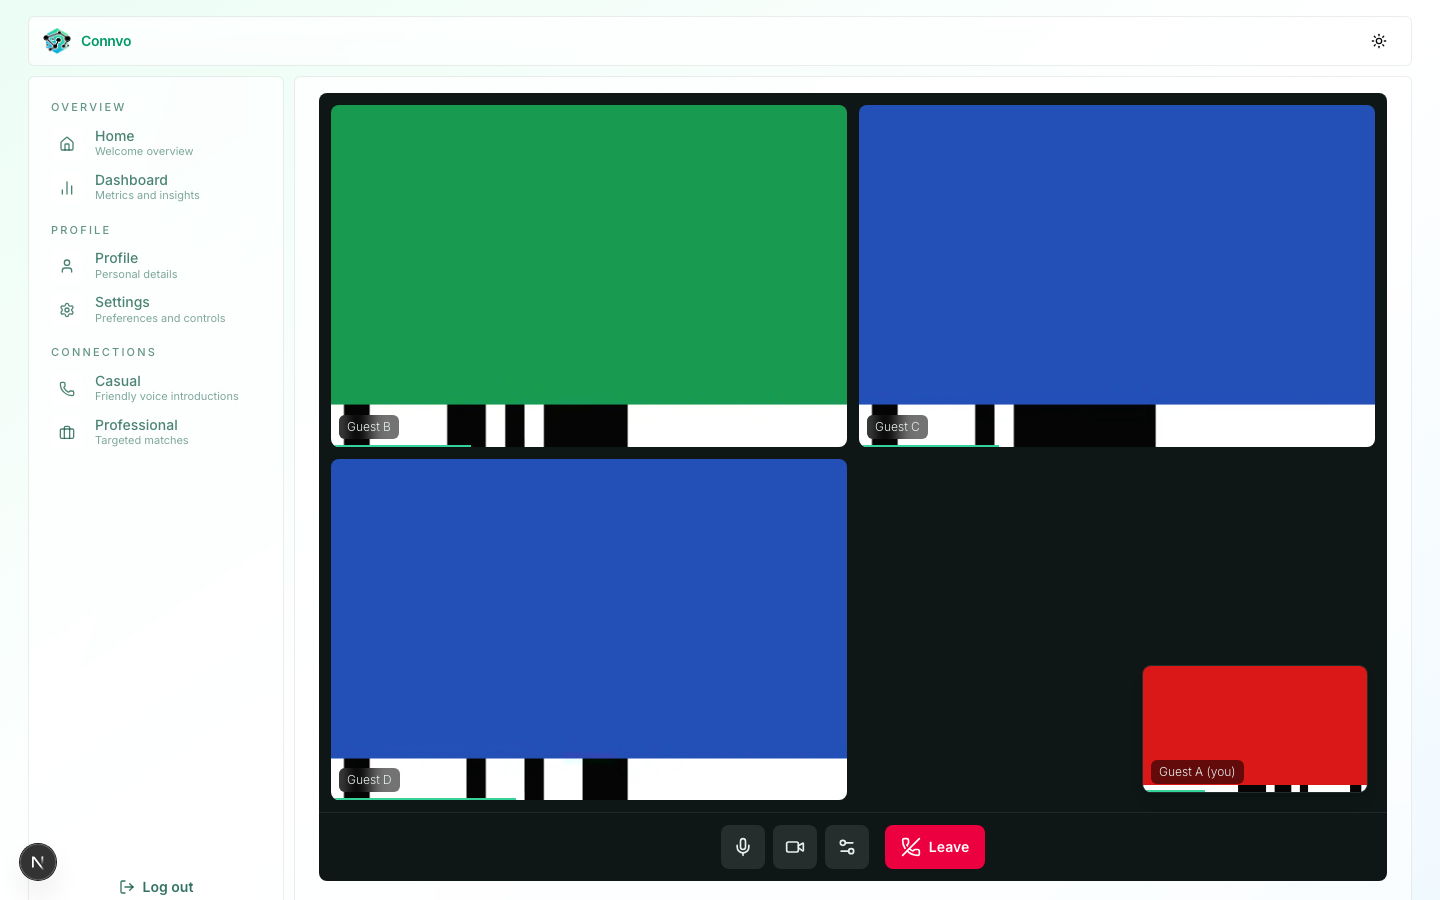
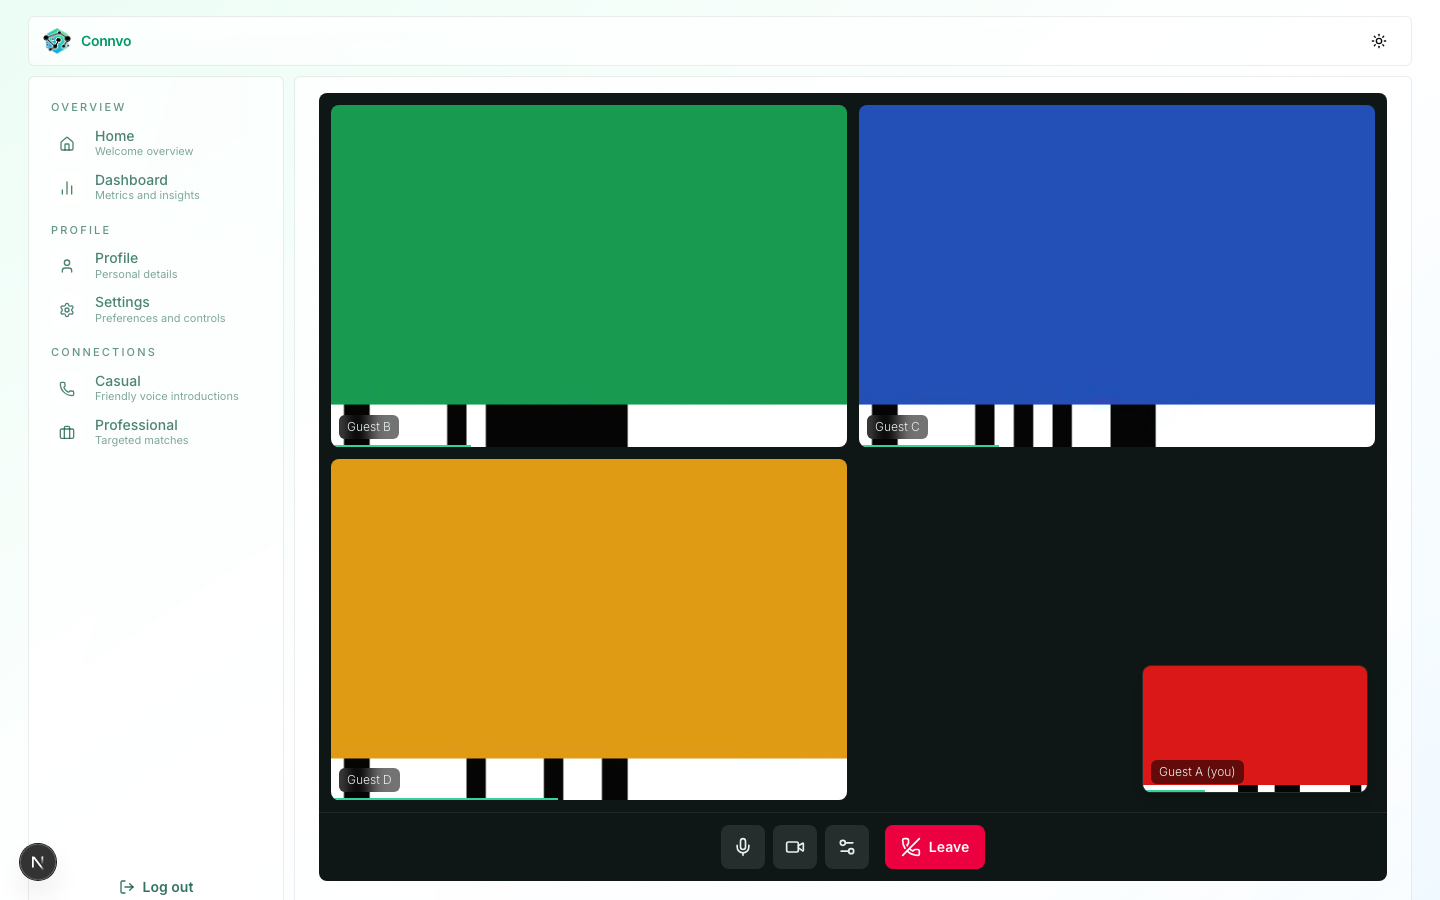
feat(call-eval): peer D gets its own colour and tone; P-03 checks ARIA state
- D was a copy of C's fixture, so the four-person screenshot could not
  show that D's tile carried D's video. D now has its own media: amber
  rgb(210,150,30) and a 1100 Hz tone, in the generator and its self-check,
  the contracts, the palette and the runner. The four-person screenshots
  are reshot (others unchanged): D's tile is amber.
- On the real page the mic and camera toggles are icon buttons, so P-03
  now requires both aria-pressed and aria-label to flip (the bench's text
  buttons still need their text to change).

Real page, p2p, seed 1: P-01 and P-03 pass (P-03 saw
"true|Unmute microphone" after Enter). P-02 and P-05 hit a join that never
negotiated, and P-04 saw two 150 ms animations under reduced motion; both
are being fixed next.

Changed region(s): [[0.2188, 0.4356, 0.5938, 0.9022], [0.7188, 0.4356, 0.7812, 0.4978], [0.875, 0.8711, 0.9062, 0.9022]]

diff --git a/tools/call-eval/lib/scenario-contracts.ts b/tools/call-eval/lib/scenario-contracts.ts
@@ -47,11 +47,12 @@ export const H_IDS = Object.keys(H_PASS_CONDITIONS) as HScenarioId[];
 export const P_IDS = Object.keys(P_PASS_CONDITIONS) as PScenarioId[];
 
 /** Pinned fixture constants (CONTRACT.md "Fixtures"). */
-export const TONES = { A: 440, B: 660, C: 880 } as const;
+export const TONES = { A: 440, B: 660, C: 880, D: 1100 } as const;
 export const PEER_COLORS = {
   A: [205, 35, 35],
   B: [35, 150, 85],
   C: [45, 85, 175],
+  D: [210, 150, 30],
 } as const;
 export const SECOND_CAMERA_COLOR = [170, 40, 170] as const;
 
